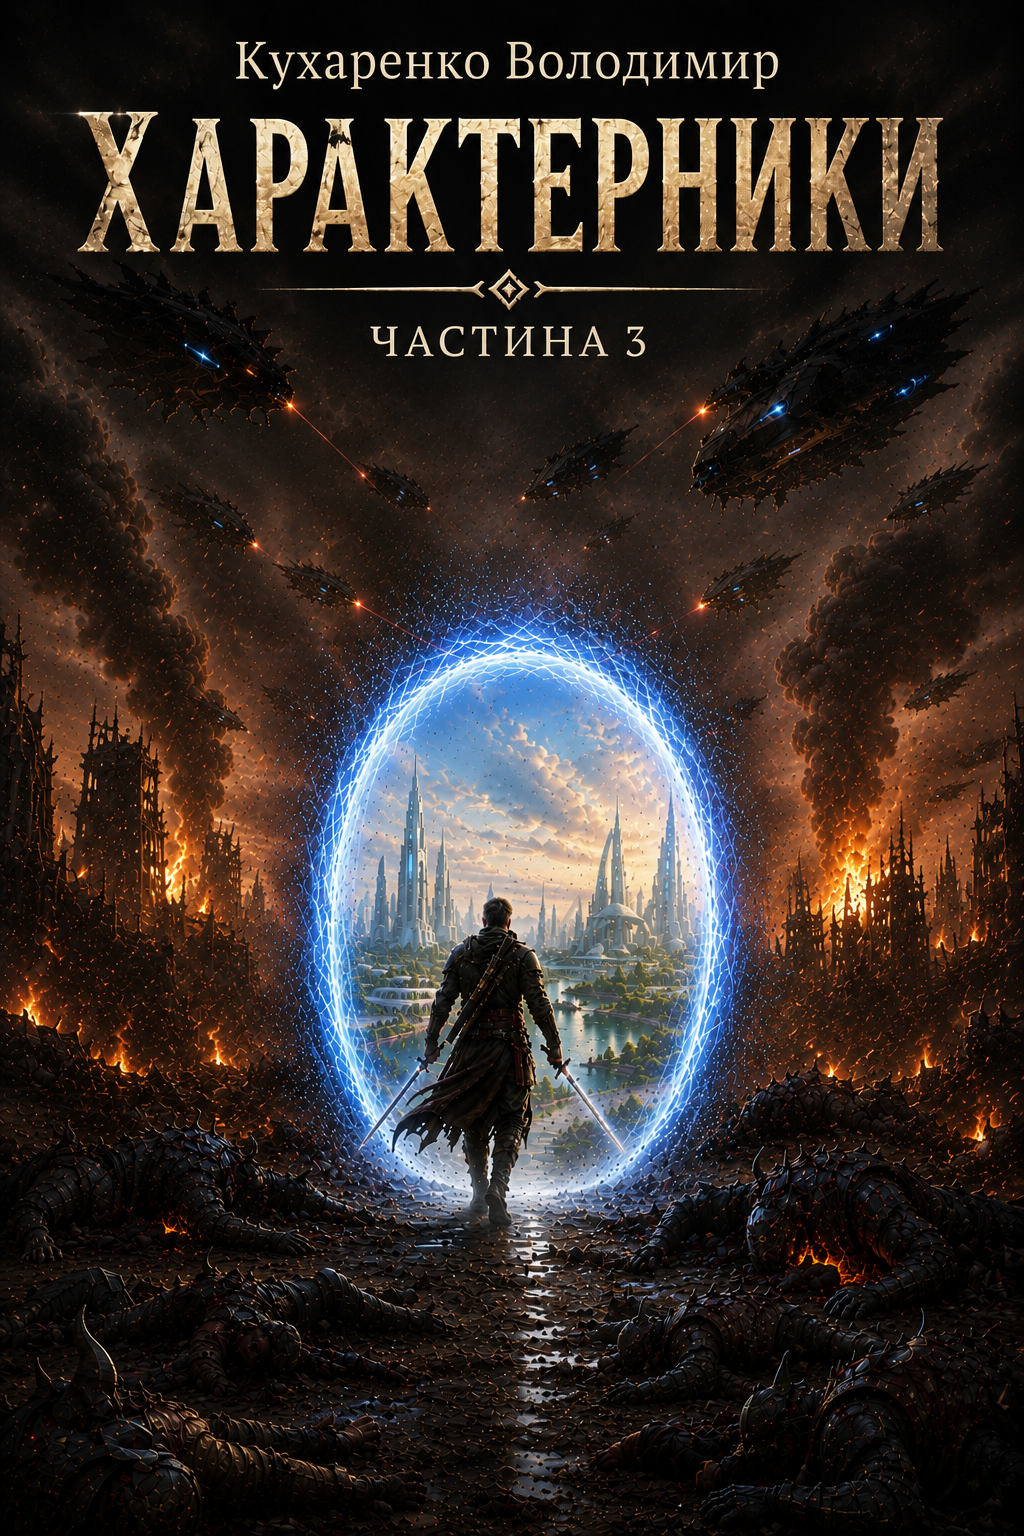
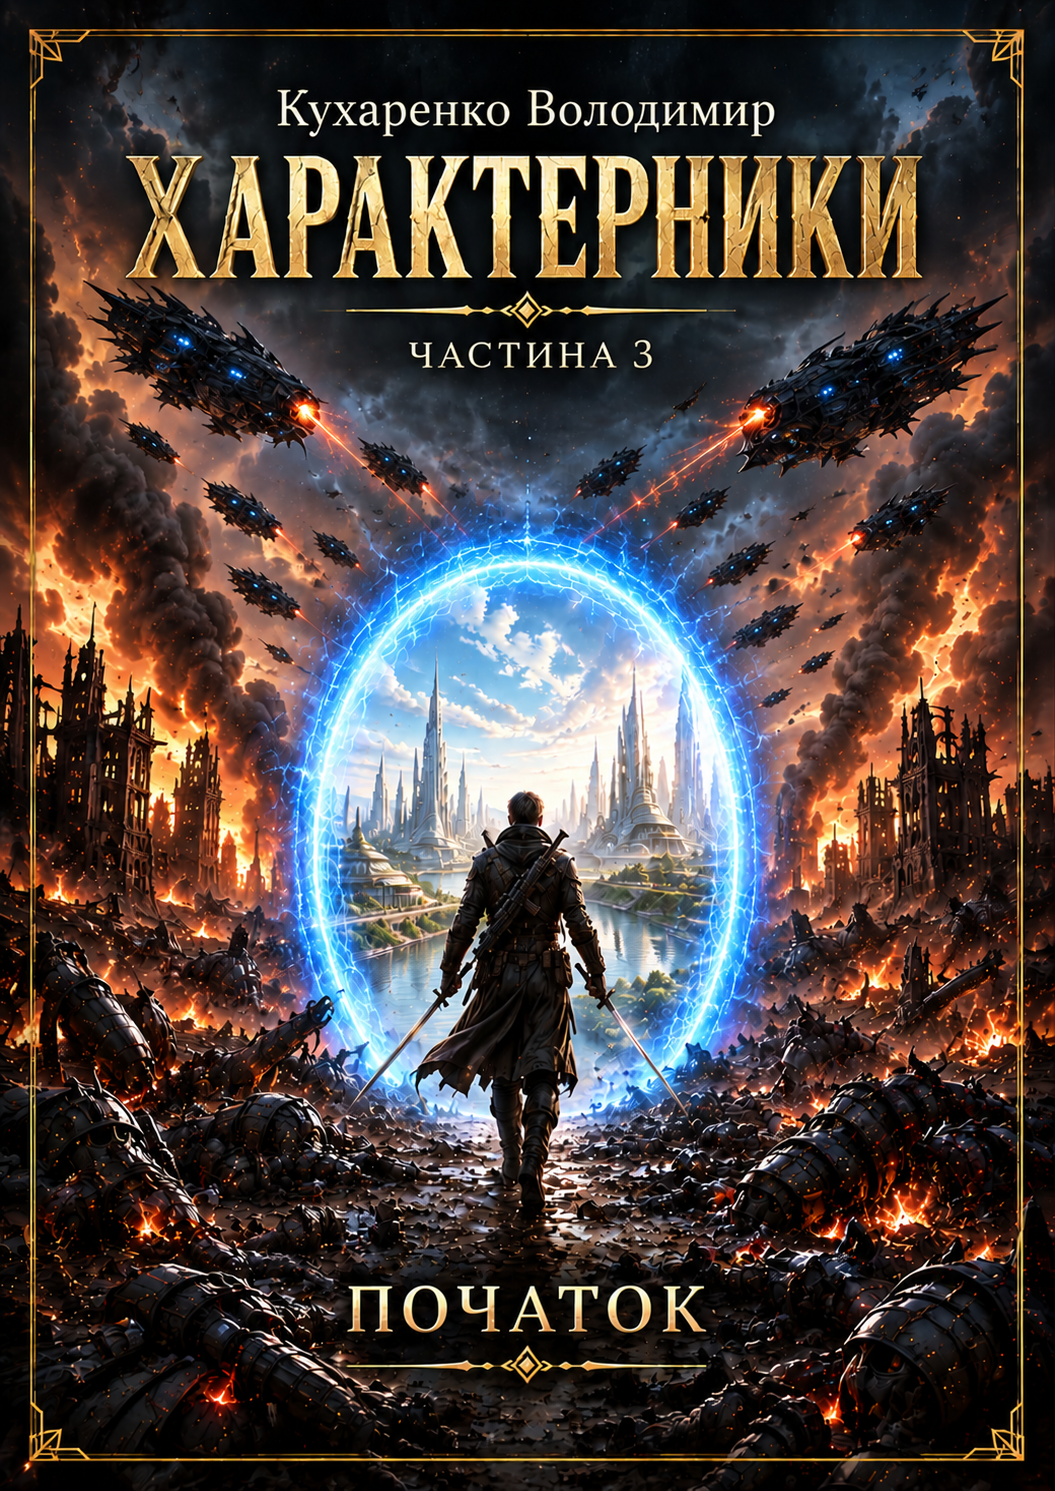
Initial website

diff --git a/pages/technology/misto-shlyah.html b/pages/technology/misto-shlyah.html
@@ -213,7 +213,7 @@
 
     <figure class="hero-image">
         <img
-            src="../../images/technology/misto-shlyah/misto-shlyah.png"
+            src="../../images/technology/misto-shlyah/misto-shlyah.webp"
             alt="Місто-шлях — канонічний вигляд і технічна схема"
         >
     </figure>
